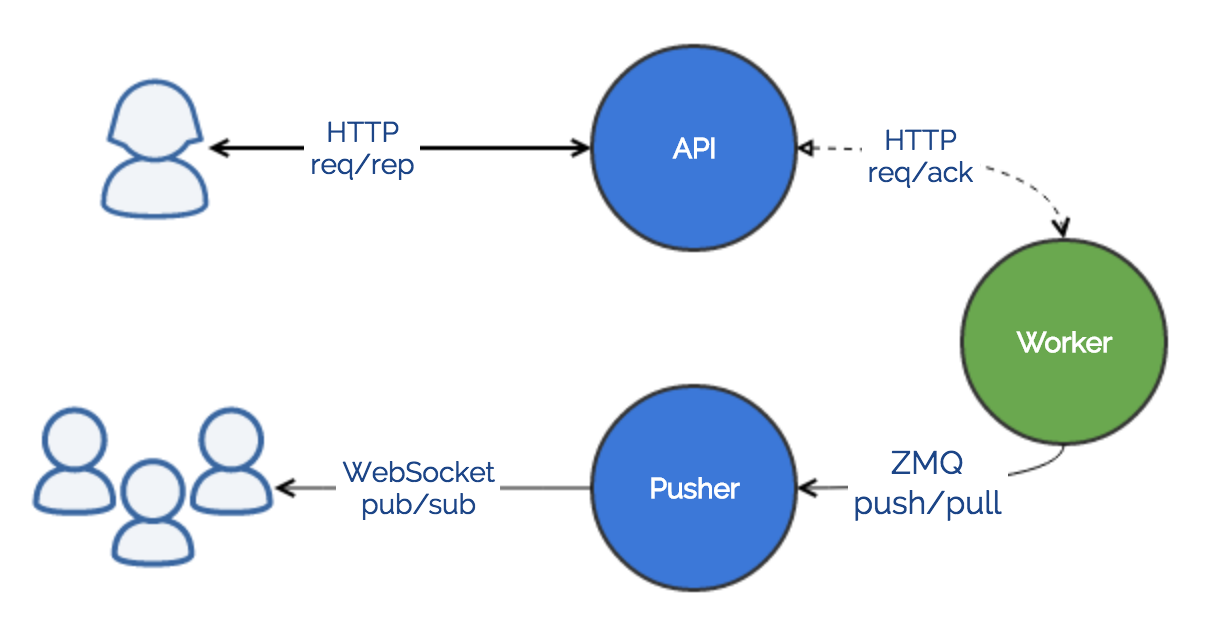
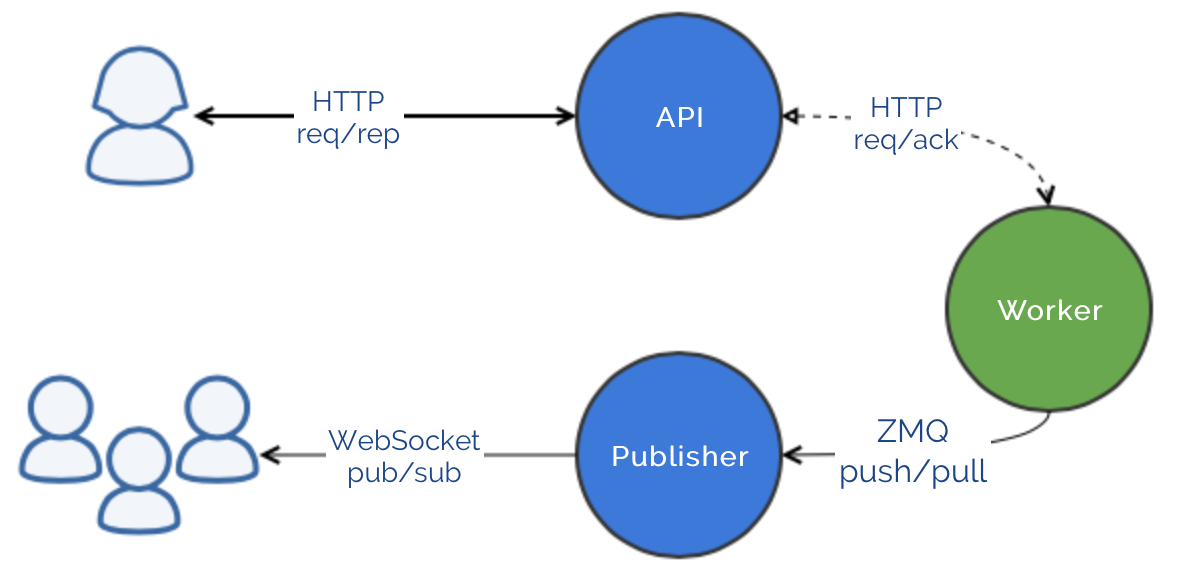
- pusher devient publisher - ajout qui est le prochain sur slides - bug sur aside - légendes sur middleware bus - parle de container plutôt que de pod

diff --git a/index.html b/index.html
@@ -133,7 +133,9 @@
 							Bonjour à tous, <br>
 							Nous sommes Etienne et Vincent, Lead dev et CTO à Domraider.<br>
 							Spécialiste français du nom de domaine expiré <br>
-							On vous fait un retour de notre expérience du passage de monolith au microservice
+							<br>
+							Après un an de travail en production avec des microservices et des container docker <br>
+							on est venu vous présenter où on en est
 						</aside>
 					</section>
 				</section>
@@ -171,7 +173,8 @@
 							ER : choix qui nous a le plus plu :  microservice<br>
 							objectif : 1 service = 1 process<br>
 							tous indépandants les un des autres (crash)<br>
-							scalable
+							scalable <br> <br>
+							next VV
 						</aside>
 					</section>
 
@@ -208,6 +211,8 @@
 							simple à déployer, mettre à jour et utiliser, minimaliste donc simple à tester et à documenter
 <br>
 							Et bien sur : transition simple avec l'existant et pouvoir garder des choses sur le monolith
+							<br>
+							next ER
 						</aside>
 					</section>
 
@@ -326,7 +331,9 @@ $bus->handle(new AuctionRaiseCommand([
 						<aside class="notes">
 							ER :
 							Avec un bus (ici SimpleBus)
-							et c'est parti !!!!!!!
+							et c'est parti !!!!!!! <br>
+							<br>
+							next VV
 						</aside>
 					</section>
 
@@ -387,11 +394,14 @@ $bus->appendMiddleware(new RetryOnFailMiddleware());
 						<aside class="notes">
 							VV : API va déléguer le travail et respecter le AsynchronousMiddleware<br>
 							Alors que le worker va lui ignorer le asynchronous mais ré-essayer si la command throw<br>
-							Le worker va envoyer une commande au pusher qui va relayer aux clients<br>
+							Le worker va envoyer une commande au publisher qui va relayer aux clients<br>
 <br>
 							Plusieurs librairies dispo des plus simples : tactician et simplebus aux plus complexes : broadway et prooph<br>
 <br>
 							Conférence sur le sujet organisé par LavaJug mercredi soir à Clermont Ferrand : CQRS par Matthieu Moquet
+							<br>
+							<br>
+							next ER
 						</aside>
 					</section>
 
@@ -407,9 +417,9 @@ $bus->appendMiddleware(new RetryOnFailMiddleware());
 <br>
 							API<->worker : php-fpm donc pas de connection persistente, délégue au worker qui lui dit OK quand il l'a reçu et peut le traiter<br>
 							=> on utilise http pour la fiabilité du message
-							worker<->pusher : envoi aux pusher websocket sans s'occuper de la réception<br>
+							worker<->publisher : envoi aux publisher websocket sans s'occuper de la réception<br>
 							=> ZMQ pushs
-							Pusher : envois a tous les navigateurs connectés<br>
+							publisher : envois a tous les navigateurs connectés<br>
 							=> pub/sub
 <br>
 							Les workers sont 100% PHP vous pouvez retrouver le code que l'on utilise pour la communication
@@ -456,12 +466,12 @@ class Worker extends Console
 						</h2>
 						<pre>
 							<code class="php">
-$push = $zmq->push("tcp://pusher.svc.domraider.com:23499");
+$push = $zmq->push("tcp://publisher.svc.domraider.com:23499");
 $push->send(new AuctionRaisedEvent());
 							</code>
 						</pre>
-						<aside>
-							worker<->pusher<br>
+						<aside class="notes">
+							worker<->publisher<br>
 							une fois l'envoi fait on se préocupe plus<br>
 						</aside>
 					</section>
@@ -469,7 +479,7 @@ $push->send(new AuctionRaisedEvent());
 					<section>
 						<h2>
 							<strong>Pull</strong> <br>
-							<small>on pusher</small>
+							<small>on publisher</small>
 						</h2>
 						<pre>
 							<code class="php">
@@ -484,6 +494,7 @@ $pull->subscribeCallback(function(AuctionRaisedEvent $event) {
 						<aside class="notes">
 							en face on pull et pour chaque websocket que l'on a on transmet l'event<br>
 							et pour la websocket allez voir la lib Thruway<br>
+							next VV
 						</aside>
 					</section>
 
@@ -500,7 +511,7 @@ $pull->subscribeCallback(function(AuctionRaisedEvent $event) {
 <br>
 							VV : Là on a un processus métier qui représente 4 services, chacun redondé au moins une fois<br>
 							Actuelement nous en avons 73 qui tournent en production,<br>
-							ce qui représente presque 400 pods,<br>
+							ce qui représente presque 400 containers,<br>
 							les workers gèrent en moyenne 4k commandes par minute<br>
 						</aside>
 					</section>
@@ -518,16 +529,13 @@ $pull->subscribeCallback(function(AuctionRaisedEvent $event) {
 						<img src="img/Kubernetes.jpg" alt="Microservices in real life" />
 						<a href="https://www.youtube.com/watch?v=9C6YeyyUUmI">https://www.youtube.com/watch?v=9C6YeyyUUmI</a>
 						<aside class="notes">
-							VV : et on c'est fait aider par Google et son Kubernetes<br>
-							Ils ont gentiment décidés de mettre open source les idées et architectures qu'ils utilisent en interne<br>
-							pour gérer leur quelques milliards de containers.<br>
-							Je vous met une vidéo vers une démonstration parlante : un gars qui fait une mise à jour en faisant un stress test à 10M de req par seconde<br>
+							Orchestrateur de container docker. <br>
+							Fournis par Google et basé sur leurs architectures où ils gérent quelques milliards de containers <br>
 <br>
-							1.3 presque sortie, projet de 2 ans, suivi par redhat et openshift, mesos, coreos
-							Du gros
-							On en est pas encore là mais ça nous a servi à plusieurs choses
-
-							Déjà
+							1.3 presque sortie, projet de 2 ans, suivi par redhat et openshift, mesos, coreos <br>
+							Je vous met une vidéo vers une démonstration parlante : un gars qui fait une mise à jour en faisant un stress test à 10M de req par seconde<br>
+							<br>
+							on en est pas encore là mais il nous a déjà servi
 						</aside>
 					</section>
 
@@ -544,7 +552,8 @@ $pull->subscribeCallback(function(AuctionRaisedEvent $event) {
 							limite officielle de 1000 nodes<br>
 <br>
 							si un service tombe le redémarre, si une machine tombe cherche une autre machine qui correspond<br>
-							lifeprobe pour vérifier que le pod tourne bien
+							lifeprobe pour vérifier que le pod tourne bien <br>
+							next ER
 						</aside>
 					</section>
 
@@ -554,13 +563,13 @@ $pull->subscribeCallback(function(AuctionRaisedEvent $event) {
 							<small>Plug & play cluster communication</small>
 						</h2>
 						<ul>
-							<li>1 pod = 1 IP address</li>
+							<li>1 pod = 1 container = 1 IP address</li>
 							<li>1 service load balance X pods</li>
 							<li>1 service = 1 dns entry (ttl <1s)</li>
 						</ul>
 						<aside class="notes">
 							ER :
-							1 IP par pod (pod = worker, pusher, ect.)<br>
+							1 IP par pod (pod = worker, publisher, ect.)<br>
 							1 service pour le load balancing entre pods identiques<br>
 							via une entrée dns<br>
 							1 route par host, pas de problème de port, on peut peut avoir plusieurs ports 80 par ex<br>
@@ -605,7 +614,7 @@ kubectl rolling-update --image=domraider/worker:1.3.7 AuctionWorker
 							Pendant un court instant les deux versions peuvent fonctionner ensemble<br>
 <br>
 							VV : Synthèse : on a testé d'autre solutions, on préfère k8s qui est incassable depuis 1 an<br>
-							15 noeuds, 200 RC, 367 pods, 73 services<br>
+							15 noeuds, 200 RC, 367 containers, 73 services<br>
 
 							Conf mardi sur Kubernetes à 11H par Samuel Roze<br>
 
@@ -641,7 +650,8 @@ kubectl rolling-update --image=domraider/worker:1.3.7 AuctionWorker
 						<aside class="notes">
 							VV : L'enchère que l'on a vu tout à l'heure aura pu s'executer sur 3 machines, si je doit suivre sa trace en explorant les machines ça peut être long<br>
 							graylog, ou plein de services payants<br>
-							Sentry
+							Sentry <br>
+							next ER
 						</aside>
 					</section>
 
@@ -719,13 +729,18 @@ Besoin d'un build automatisé avec versionning (jenkins)<br>
 					</section>
 
 					<section>
-						<h1>RxNet</h1>
+						<h2>
+							<strong>RXNet</strong><br>
+							<small>ReactiveX network library in PHP</small>
+						</h2>
 						<p>
-							<a href="https://github.com/Domraider/rxnet">Examples and project can be found here</a></li>
+							<a href="https://github.com/Domraider/rxnet">https://github.com/Domraider/rxnet</a></li>
 						</p>
 						<aside class="notes">
 							VV : on a du développer une librairie pour gérer toutes les communications <br>
-							on a choisi de l'open sourcé pour le PHP tour
+							Actuellement composants réseaux ZMQ et HTTP encore beaucoup de choses à sortir de la prod pour
+							<br>
+							profiter de tous les avantages
 						</aside>
 					</section>
 
